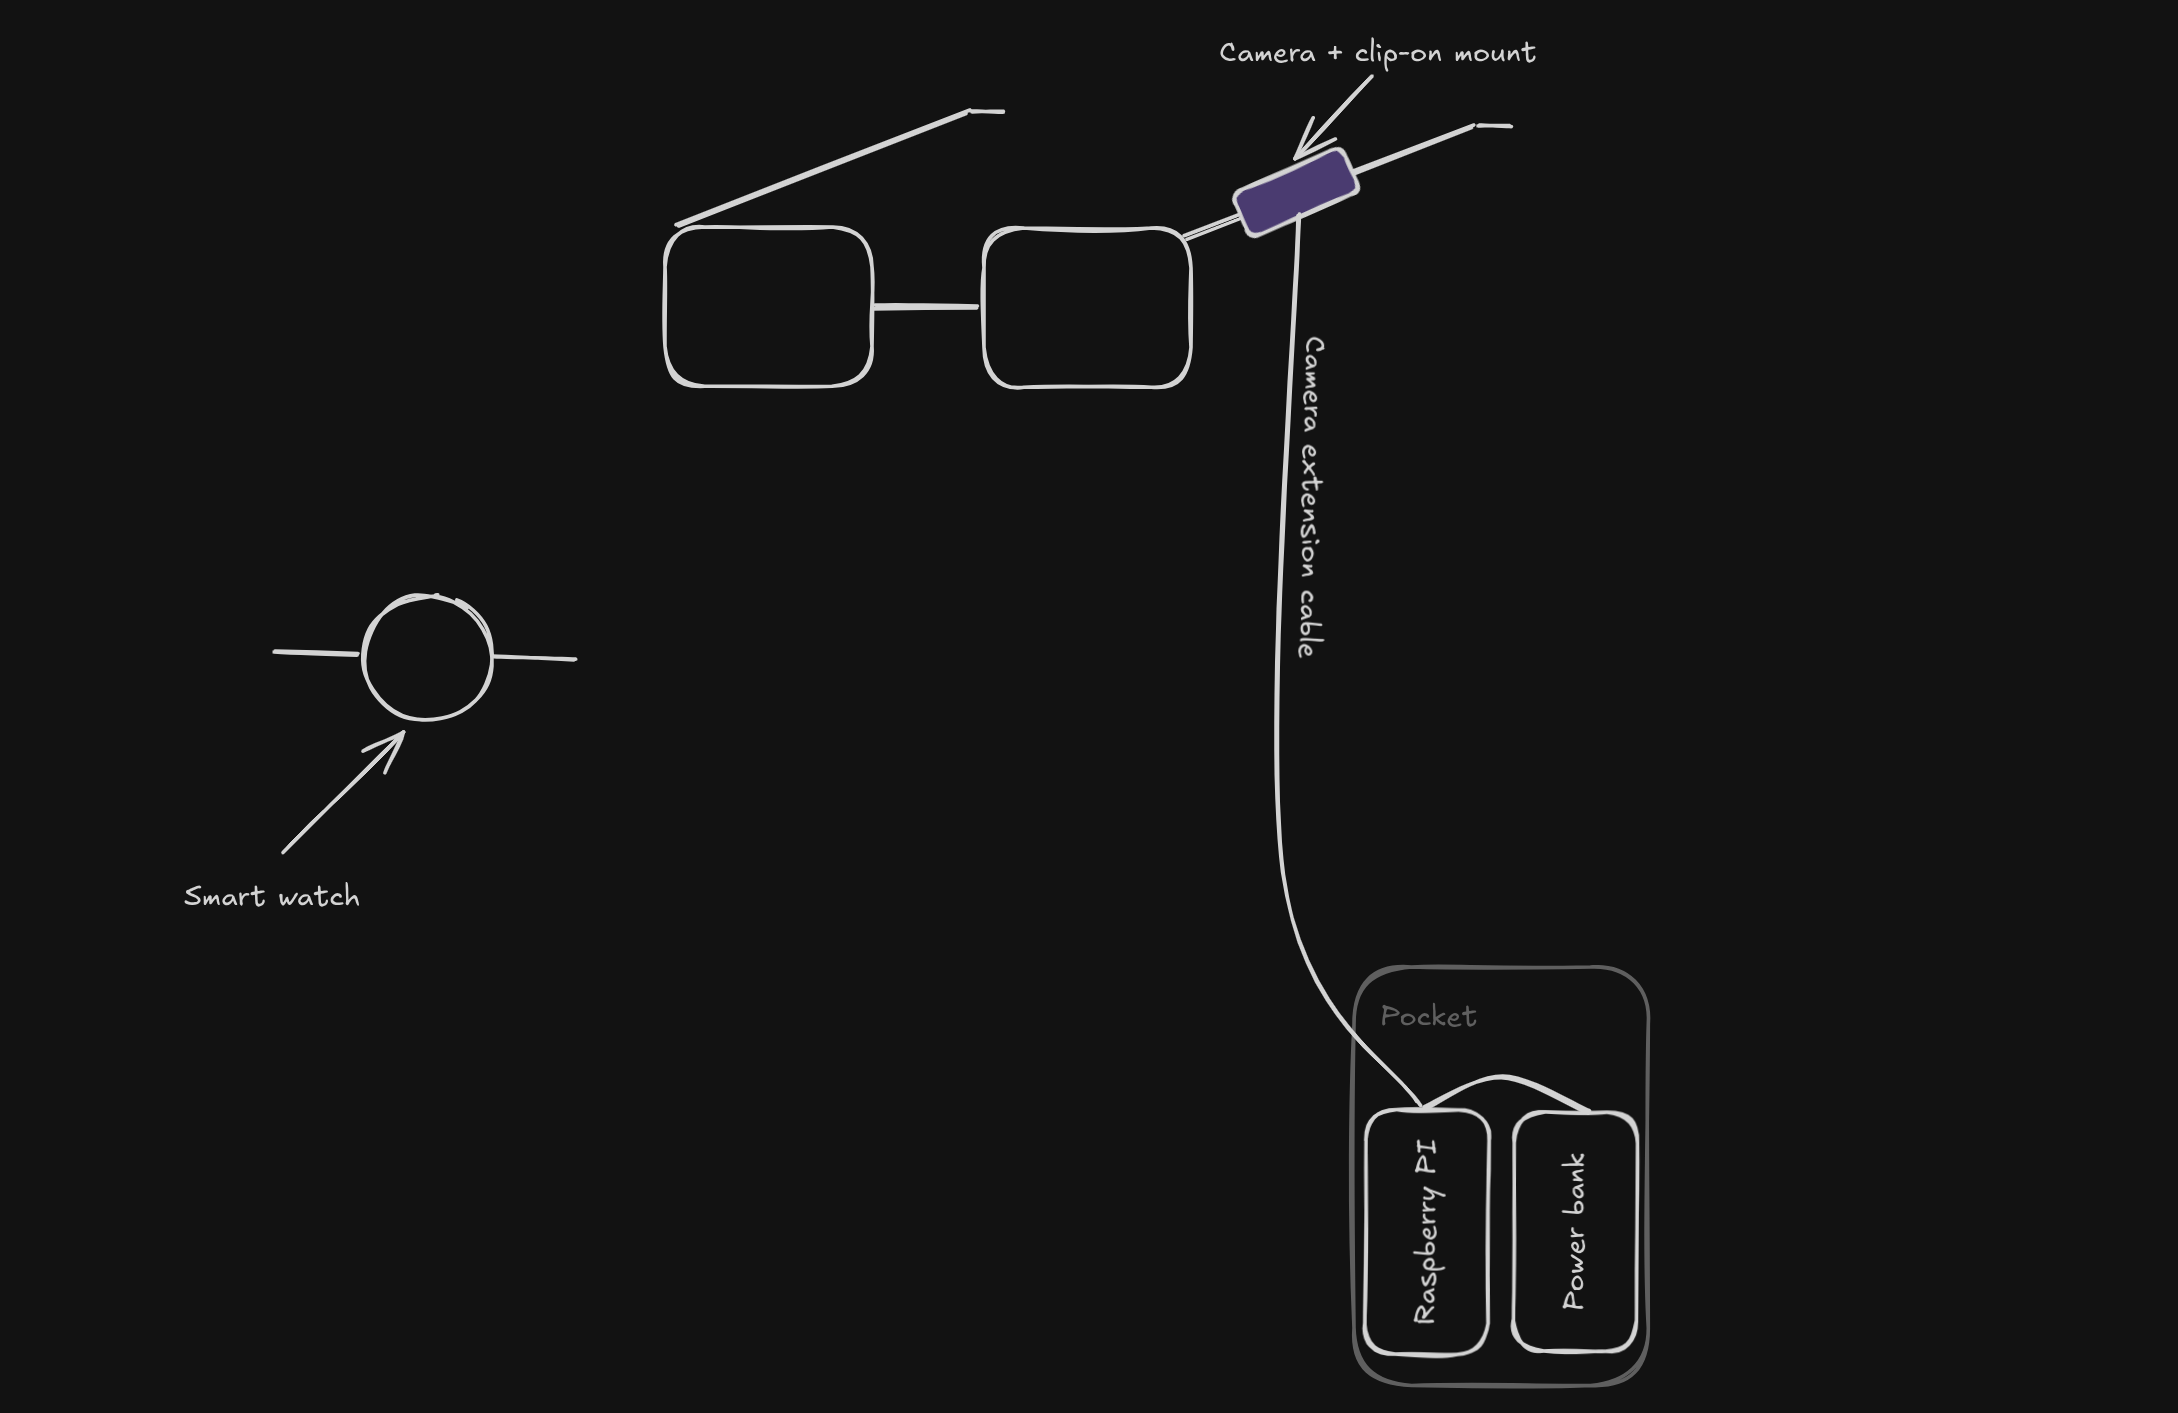
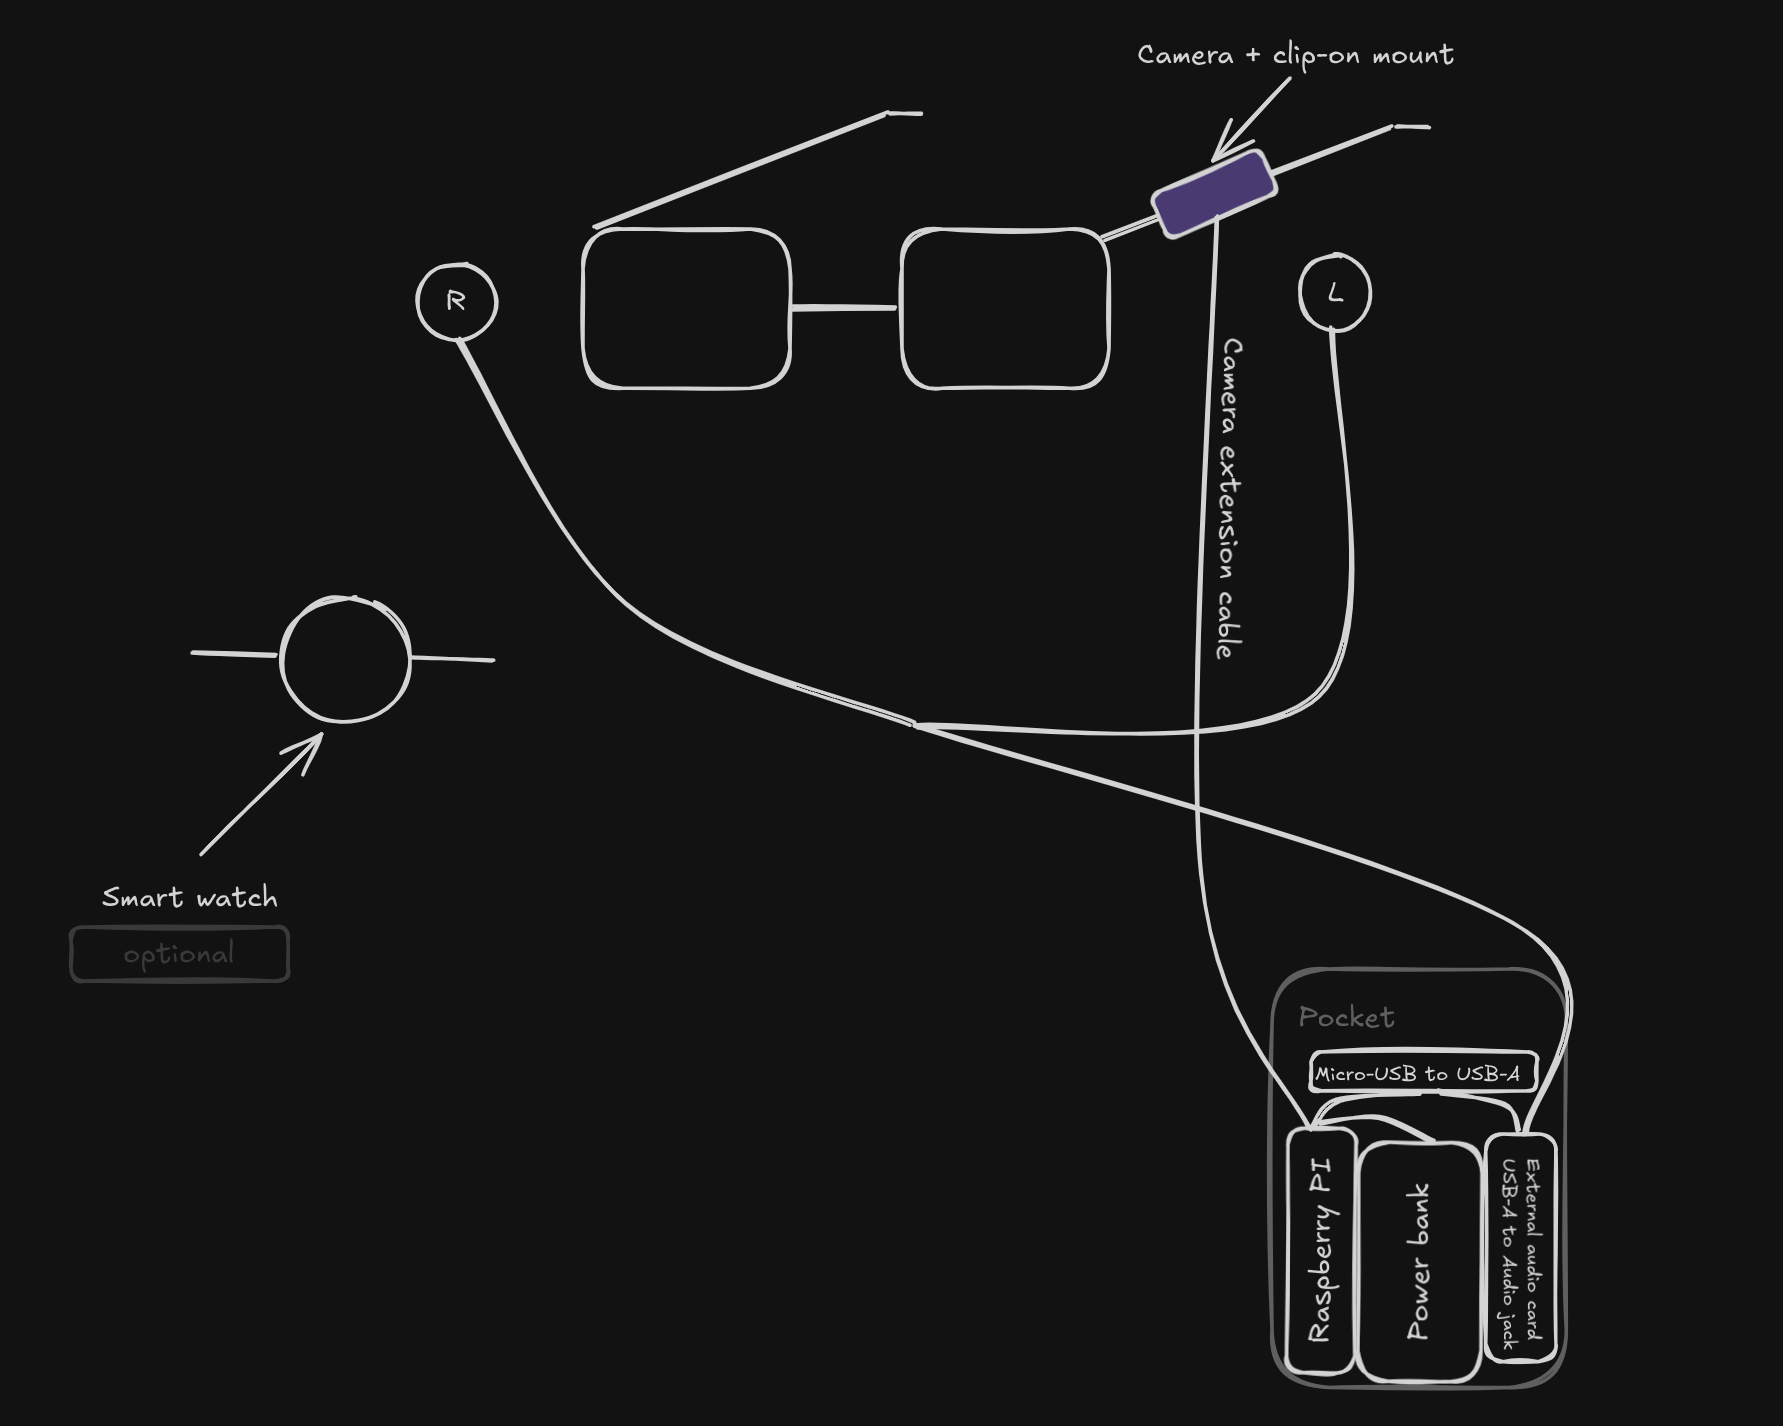
docs: Revised system design so that there's less dependency on the smart watch

diff --git a/README.md b/README.md
@@ -3,6 +3,7 @@
 > [!WARNING]
 > This project is solely designed for and tailored to my personal needs. I'm merely open sourcing it in case someone has a family member with vision impairments
 > and wants to help them out in some way.
+> Use at your own risk.
 
 ![Top-level system design](./docs/top-level-system-design.png)
 ![Rough wireframe of the contraption](./docs/rough-wireframe-of-the-contraption.png)
@@ -14,6 +15,8 @@
 - Raspberry PI Zero W v2
 - Raspberry PI Zero W v2 Camera module
 - Camera module extension cable
-- Cooler (?)
 - Case (this one's cool: https://flirc.tv/products/flirc-raspberrypizero?variant=43085036519656)
 - Micro SD card so i can flash an OS on the PI
+- Micro-USB to USB-A adapter
+- USB-A to audio jack (headphones) external sound card
+- Pair of headphones with microphone included
